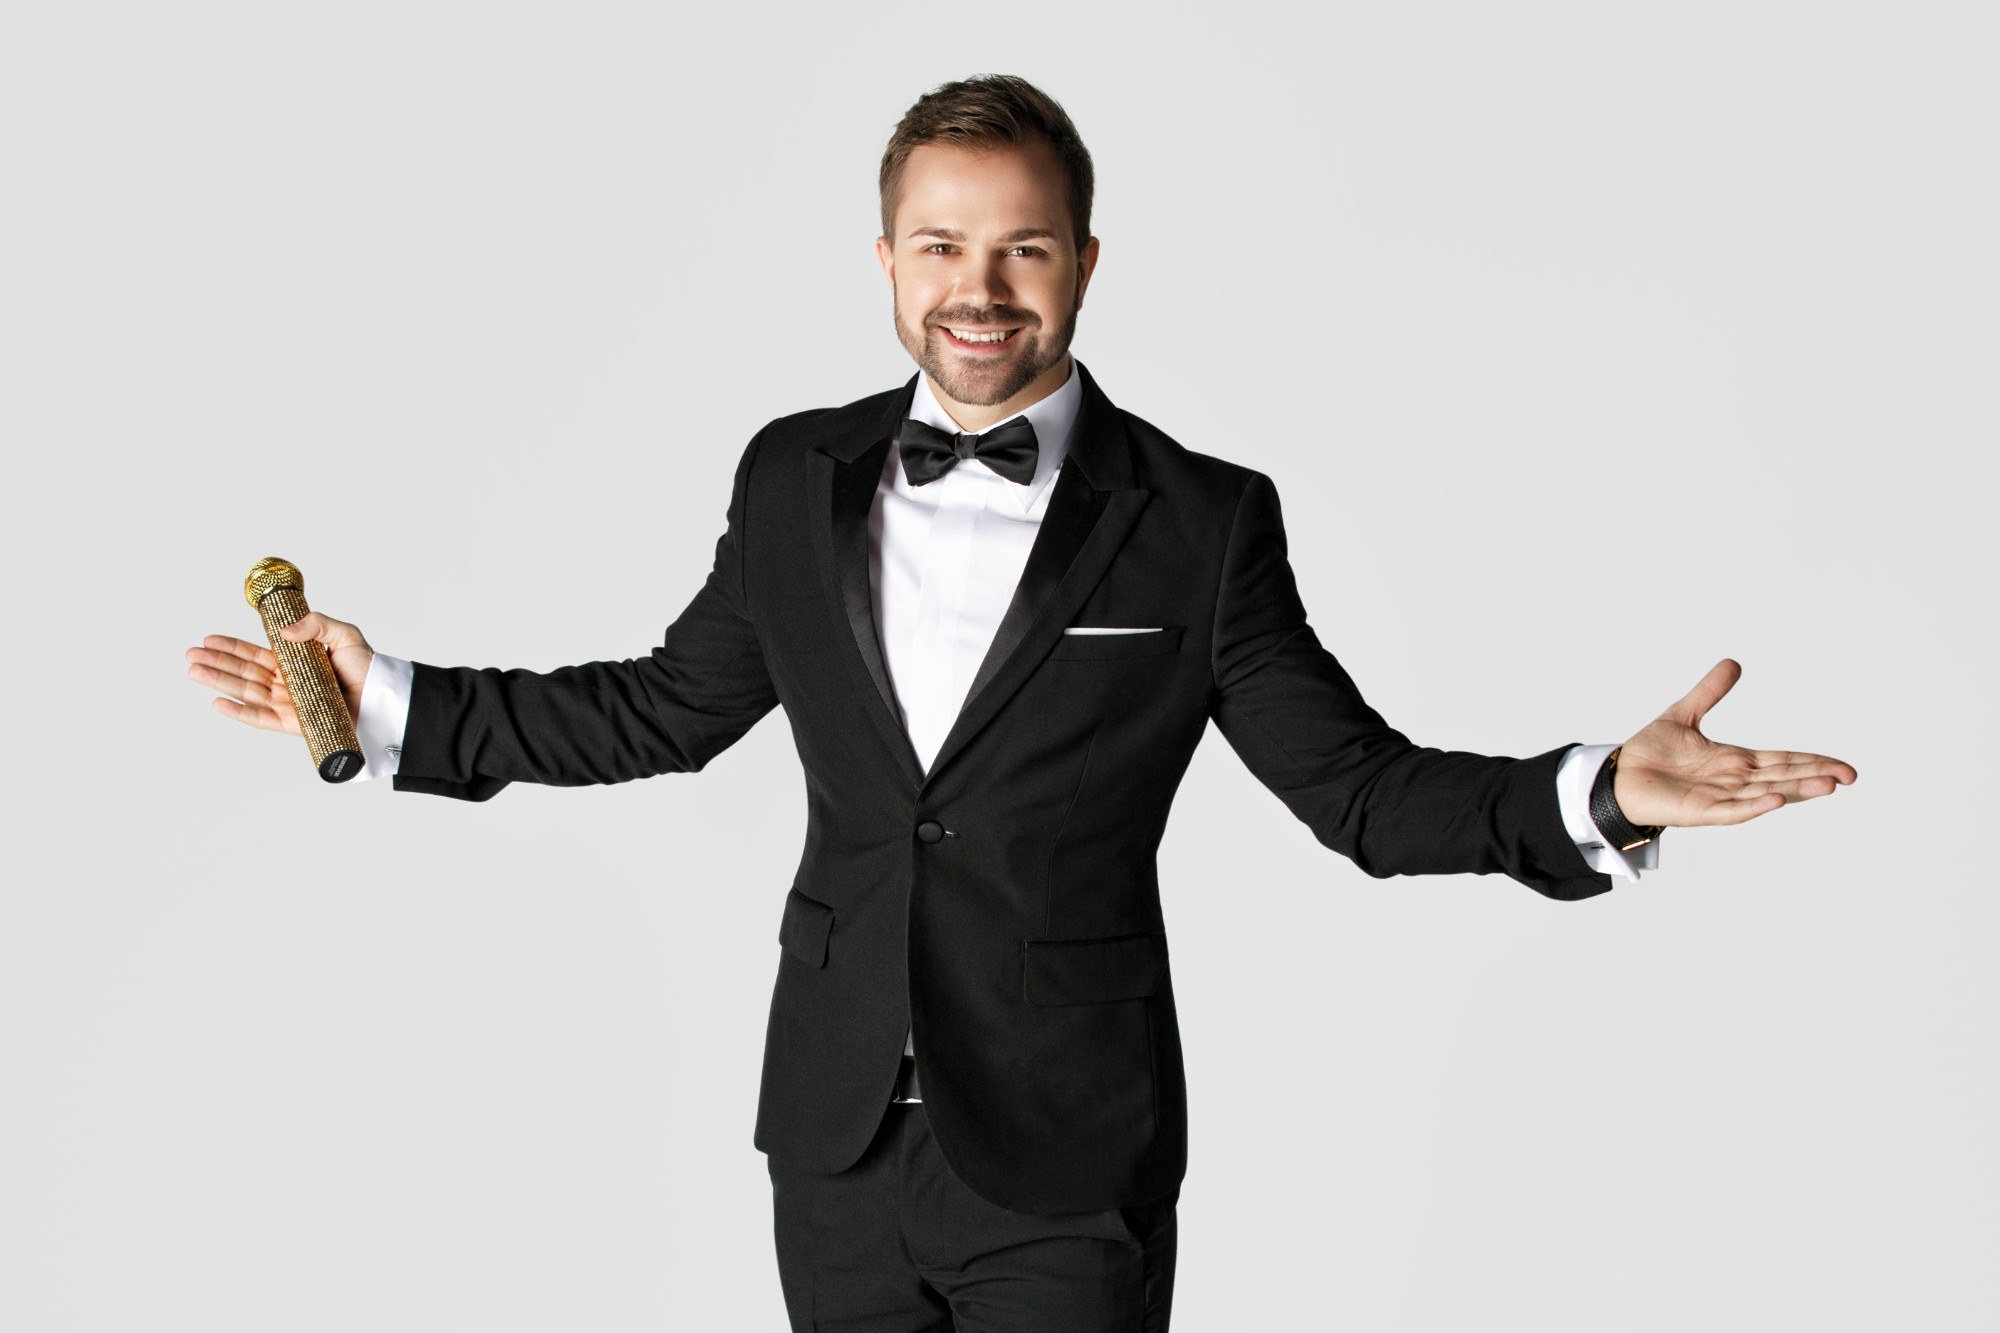
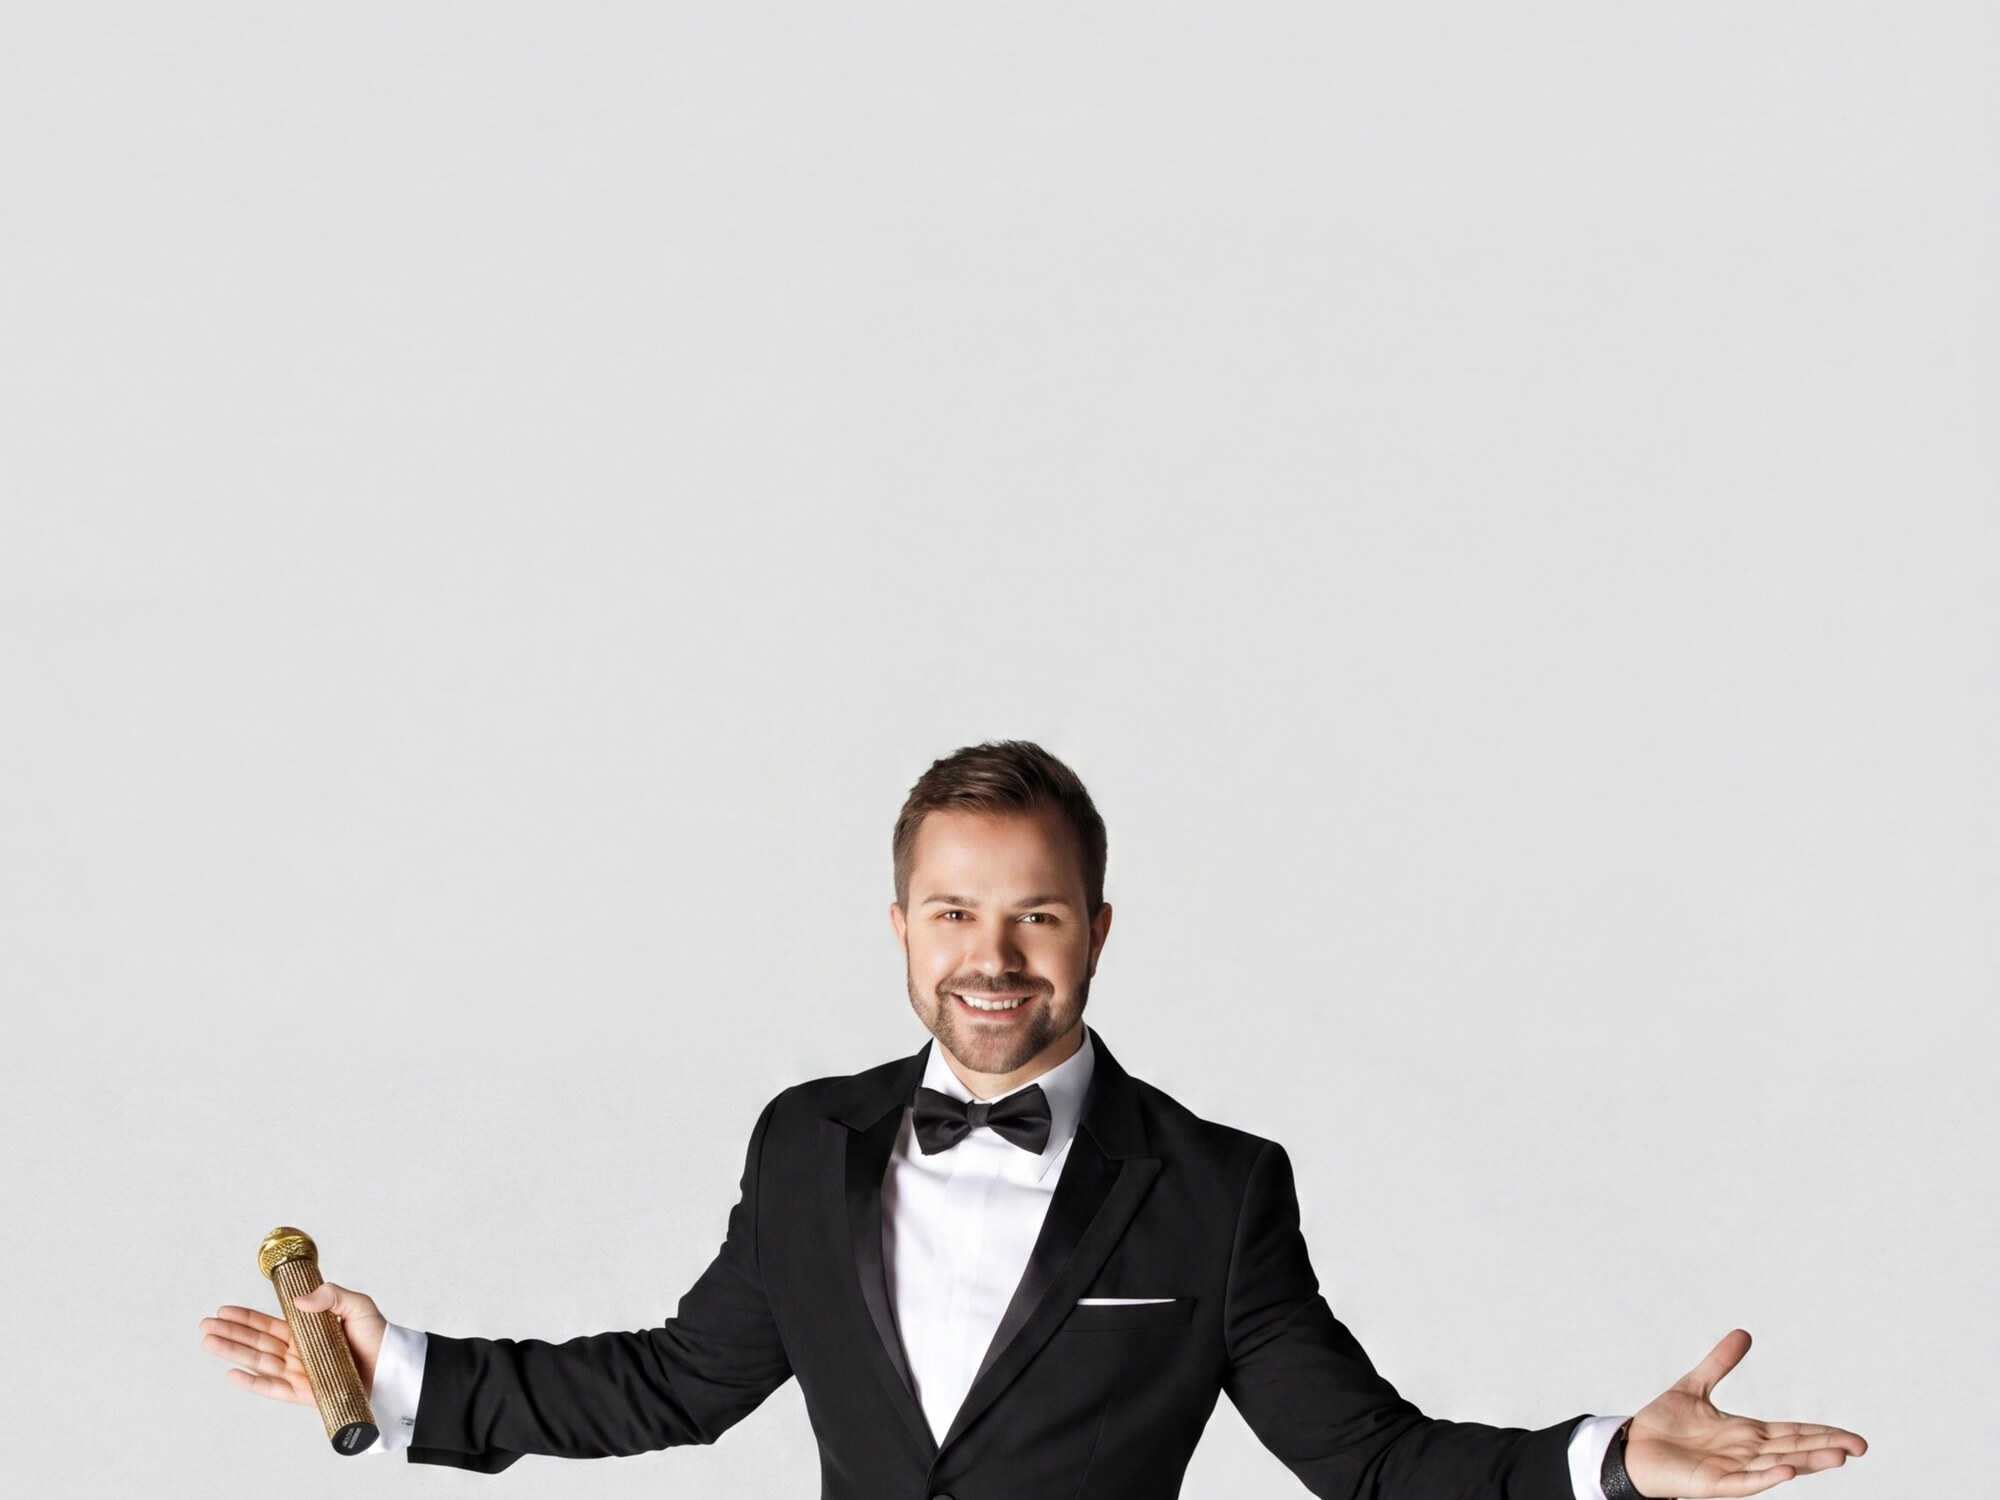
hero player: X-close button + 720p/1080p/4K quality picker
- Remove hidden attr on hero__close so CSS opacity transition actually
  reveals it during playback
- Add .hero__quality pill picker (positioned next to close button)
  with 3 buttons: 720p / 1080p / 4K (2160p)
- JS changeQuality() swaps src, preserves playback position + playing state
- Falls back to 720p on slow networks (saveData/2g/3g)
- 4K transcodes added for all 4 hero clips (CRF 24)

Also: replace corporate tile photo — new stas corp shot cropped to 4:3
(2000x1500) with empty space in upper portion so the tile overlay
(title + CTAs) doesn't land on the person.

Changed region(s): [[0.093, 0.0615, 0.93, 1.0], [0.558, 0.9842, 0.589, 1.0]]

diff --git a/src/main.js b/src/main.js
@@ -253,6 +253,8 @@
 		const heroPlay = hero.querySelector('[data-hero-play]');
 		const heroClose = hero.querySelector('[data-hero-close]');
 		const heroVideo = hero.querySelector('[data-hero-video]');
+		const heroQualityBtns = hero.querySelectorAll('[data-hero-q]');
+		let heroQuality = '1080';
 		const order = ['red', 'bw', 'gold', 'white'];
 		// Costume → matching clip (sourced from LCB promo 2025 reels):
 		//   red   = Эгоистка (red suits, red LED)
@@ -298,9 +300,10 @@
 			if (!heroVideo) return;
 			const key = heroVideoMap[current] || 'promo-main-reel';
 			const slow = navigator.connection && (navigator.connection.saveData || /2g|3g/.test(navigator.connection.effectiveType || ''));
-			const quality = slow ? '720' : '1080';
+			if (slow && heroQuality === '1080') heroQuality = '720';
+			syncQualityButtons();
 			const base = (window.SITE_BASE || '/').replace(/\/?$/, '/');
-			heroVideo.src = `${base}assets/video/mp4/${key}-${quality}.mp4`;
+			heroVideo.src = `${base}assets/video/mp4/${key}-${heroQuality}.mp4`;
 			heroVideo.setAttribute('controls', '');
 			stopAuto();
 			userInteracted = true;
@@ -312,6 +315,24 @@
 					heroVideo.play().catch(() => {});
 				});
 			}
+		}
+
+		function syncQualityButtons() {
+			heroQualityBtns.forEach(b => b.classList.toggle('is-active', b.dataset.heroQ === heroQuality));
+		}
+
+		function changeQuality(q) {
+			if (q === heroQuality) return;
+			heroQuality = q;
+			syncQualityButtons();
+			if (!heroVideo || !hero.classList.contains('is-playing')) return;
+			const key = heroVideoMap[current] || 'promo-main-reel';
+			const base = (window.SITE_BASE || '/').replace(/\/?$/, '/');
+			const wasPlaying = !heroVideo.paused;
+			const currentTime = heroVideo.currentTime;
+			heroVideo.src = `${base}assets/video/mp4/${key}-${heroQuality}.mp4`;
+			heroVideo.currentTime = currentTime;
+			if (wasPlaying) heroVideo.play().catch(() => {});
 		}
 
 		function stopHeroVideo() {
@@ -336,6 +357,9 @@
 		heroPlay?.addEventListener('click', playHeroVideo);
 		heroClose?.addEventListener('click', stopHeroVideo);
 		heroVideo?.addEventListener('ended', stopHeroVideo);
+		heroQualityBtns.forEach(b => {
+			b.addEventListener('click', () => changeQuality(b.dataset.heroQ));
+		});
 		document.addEventListener('keydown', (e) => {
 			if (e.key === 'Escape' && hero.classList.contains('is-playing')) stopHeroVideo();
 		});

diff --git a/src/styles.css b/src/styles.css
@@ -541,6 +541,45 @@ h1, h2, h3, p { margin: 0; }
 }
 .hero__close:hover { background: rgba(50, 50, 52, 0.9); }
 
+.hero__quality {
+	position: absolute;
+	top: 24px;
+	right: 80px;
+	z-index: 4;
+	display: flex;
+	gap: 4px;
+	padding: 4px;
+	border-radius: 999px;
+	background: rgba(28, 28, 30, 0.72);
+	-webkit-backdrop-filter: blur(18px);
+	backdrop-filter: blur(18px);
+	border: 1px solid rgba(255,255,255,0.18);
+	opacity: 0;
+	pointer-events: none;
+	transition: opacity 0.3s ease;
+}
+.hero.is-playing .hero__quality {
+	opacity: 1;
+	pointer-events: auto;
+}
+.hero__quality button {
+	font-family: var(--ff-display);
+	font-size: 12px;
+	font-weight: 500;
+	color: rgba(255,255,255,0.75);
+	background: transparent;
+	border: 0;
+	padding: 6px 10px;
+	border-radius: 999px;
+	cursor: pointer;
+	transition: background-color 0.2s ease, color 0.2s ease;
+}
+.hero__quality button:hover { color: #fff; }
+.hero__quality button.is-active {
+	color: #1D1D1F;
+	background: #fff;
+}
+
 .hero__scroll {
 	position: absolute;
 	top: 24px;
